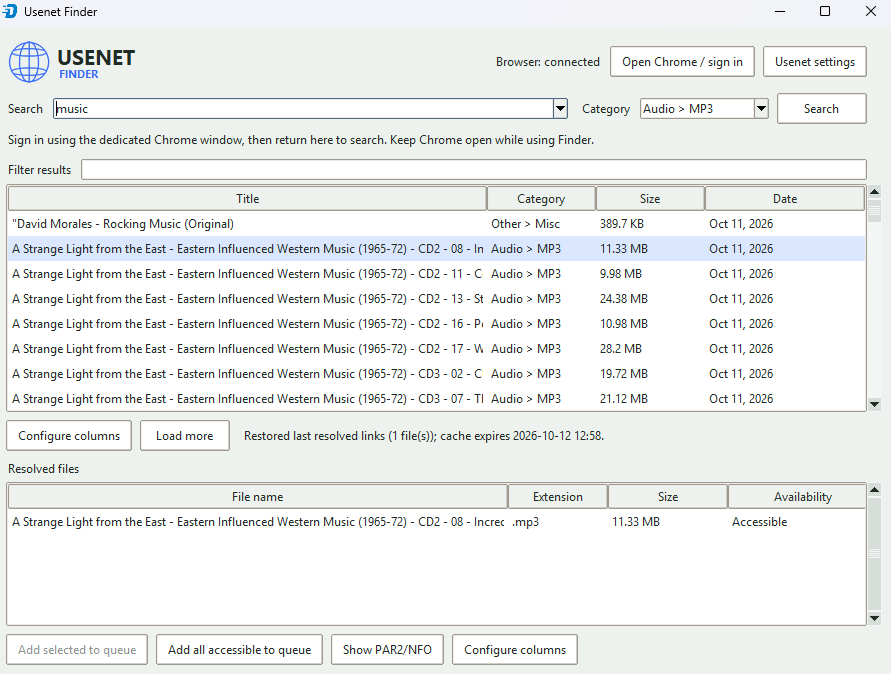
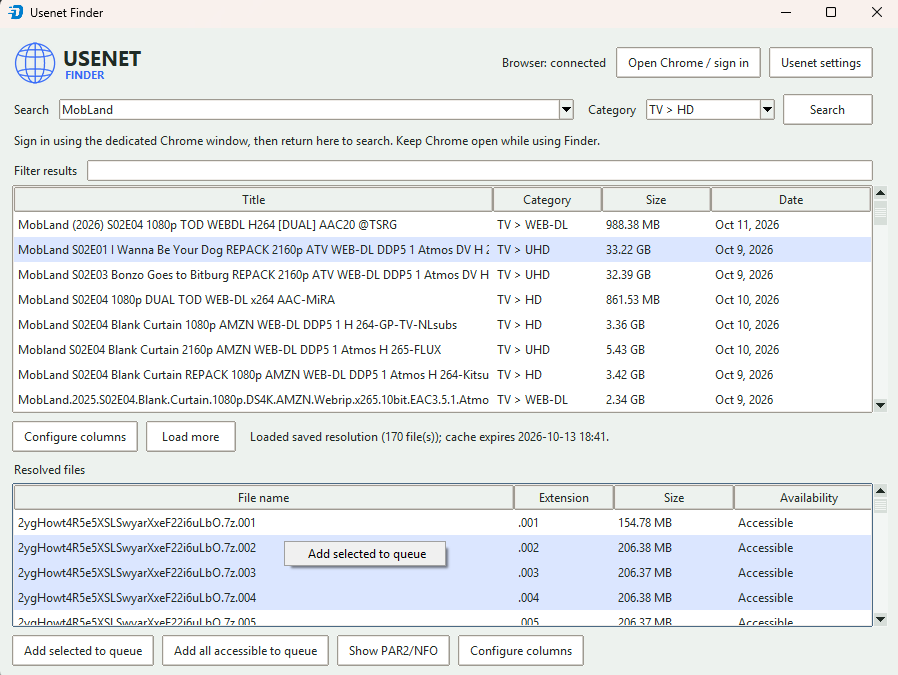
Ctrl + A on usenet links. Update screenshot.

diff --git a/src/usenet_finder_dialog.py b/src/usenet_finder_dialog.py
@@ -215,6 +215,7 @@ class UsenetFinderDialog:
             values=("",),
             width=18,
         )
+        self.query.trace_add("write", self._search_query_changed)
         self.category_picker.grid(
             row=0,
             column=3,
@@ -316,6 +317,7 @@ class UsenetFinderDialog:
         files_scrollbar.grid(row=7, column=1, sticky="ns")
         self.files.configure(yscrollcommand=files_scrollbar.set)
         self.files.bind("<<TreeviewSelect>>", self._file_selection_changed)
+        self.files.bind("<Control-a>", self._select_all_files)
         self.files.bind("<Button-3>", self._show_file_context_menu)
         self.files.bind("<Button-2>", self._show_file_context_menu)
         resolved_header = ttk.Frame(frame)
@@ -372,6 +374,10 @@ class UsenetFinderDialog:
             "then return and search."
         )
         return True
+
+    def _search_query_changed(self, *_args: object) -> None:
+        if not self.query.get().strip():
+            self.category.set("")
 
     def _search_history_selected(self, _event: tk.Event | None = None) -> None:
         selected_query = self.query.get()
@@ -1142,6 +1148,13 @@ class UsenetFinderDialog:
 
     def _file_selection_changed(self, _event: tk.Event | None = None) -> None:
         self._update_file_actions()
+
+    def _select_all_files(self, _event: tk.Event | None = None) -> str:
+        item_ids = self.files.get_children("")
+        if item_ids:
+            self.files.selection_set(*item_ids)
+            self.files.focus(item_ids[0])
+        return "break"
 
     def _update_file_actions(self) -> None:
         selected = self.files.selection()

diff --git a/tests/test_downloader.py b/tests/test_downloader.py
@@ -2067,6 +2067,25 @@ class UsenetFinderDialogTests(unittest.TestCase):
         self.assertEqual(file_size_bytes("17.88 KB"), 17_880)
         self.assertIsNone(file_size_bytes("Unknown"))
 
+    def test_ctrl_a_selects_all_resolved_files(self) -> None:
+        dialog = UsenetFinderDialog.__new__(UsenetFinderDialog)
+        dialog.files = Mock()
+        dialog.files.get_children.return_value = ("first", "second")
+
+        self.assertEqual(dialog._select_all_files(), "break")
+
+        dialog.files.selection_set.assert_called_once_with("first", "second")
+        dialog.files.focus.assert_called_once_with("first")
+
+    def test_clearing_search_query_clears_category(self) -> None:
+        dialog = UsenetFinderDialog.__new__(UsenetFinderDialog)
+        dialog.query = SimpleNamespace(get=lambda: "   ")
+        dialog.category = Mock()
+
+        dialog._search_query_changed()
+
+        dialog.category.set.assert_called_once_with("")
+
     def test_usenet_column_layout_defaults_and_saved_layouts(self) -> None:
         dialog = UsenetFinderDialog.__new__(UsenetFinderDialog)
         dialog.app = SimpleNamespace(secure_store=Mock())
